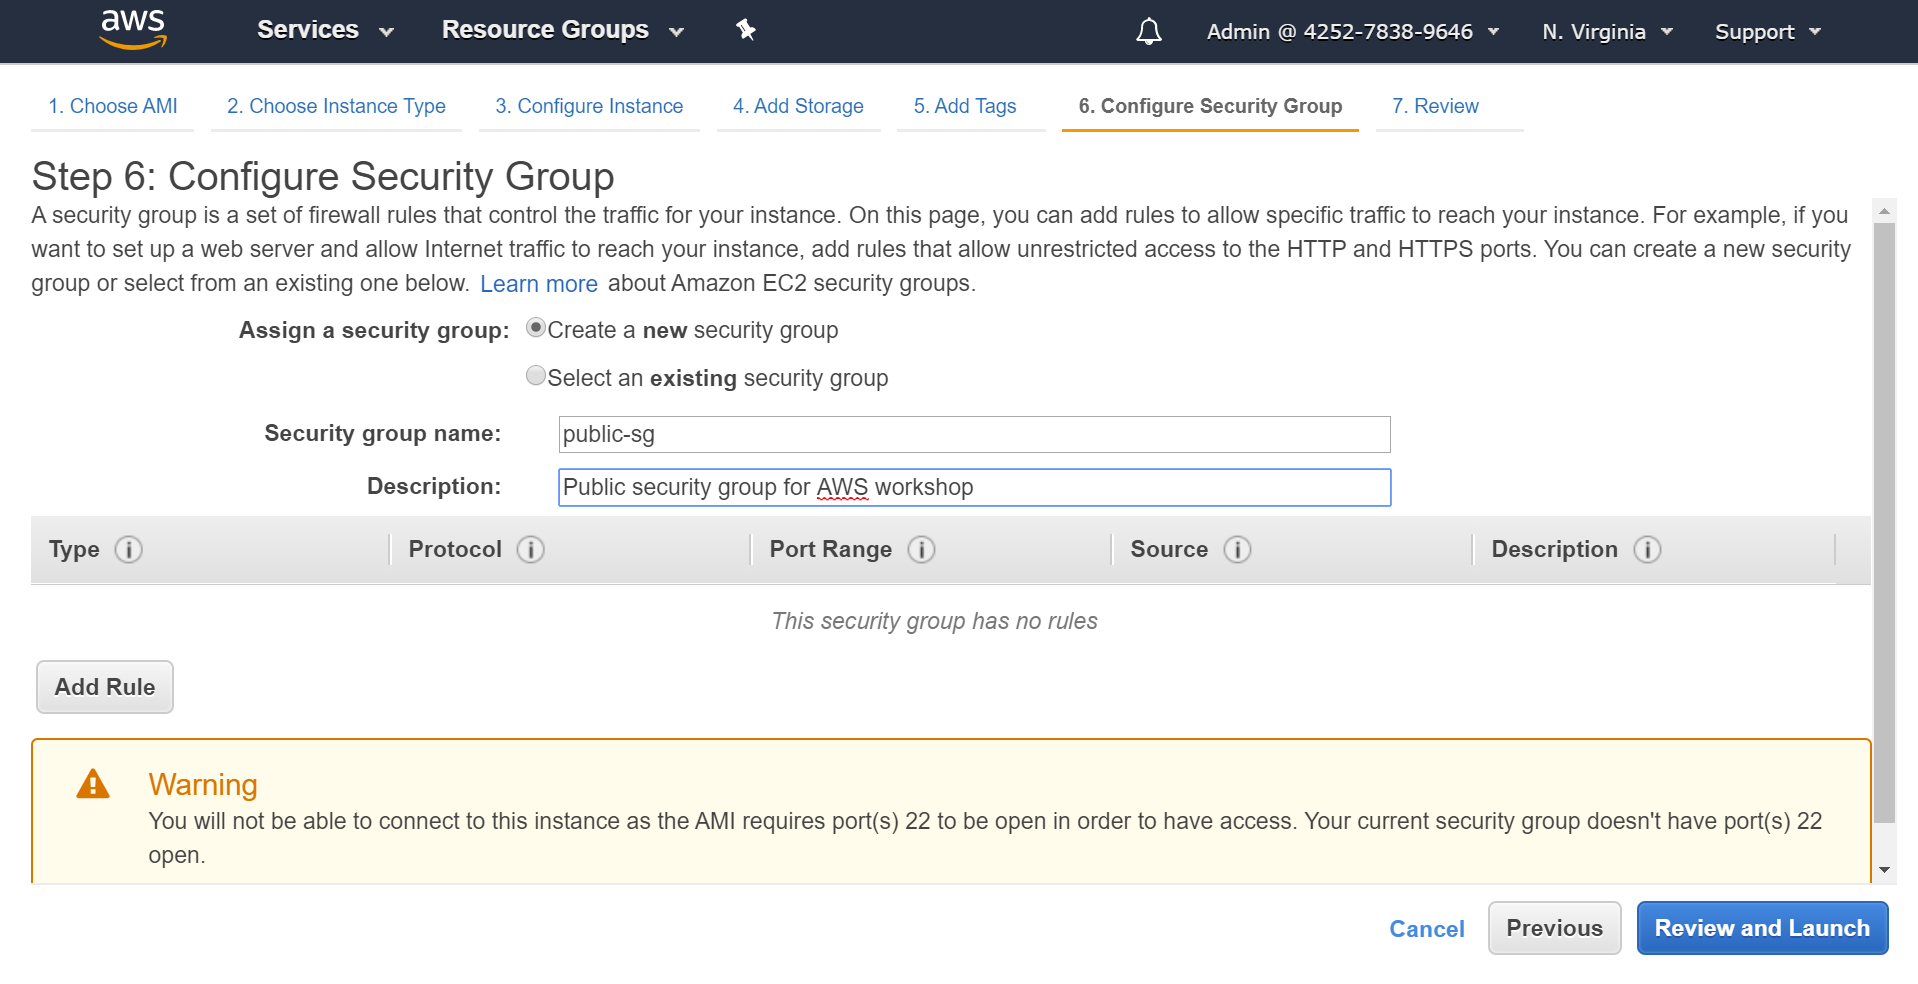
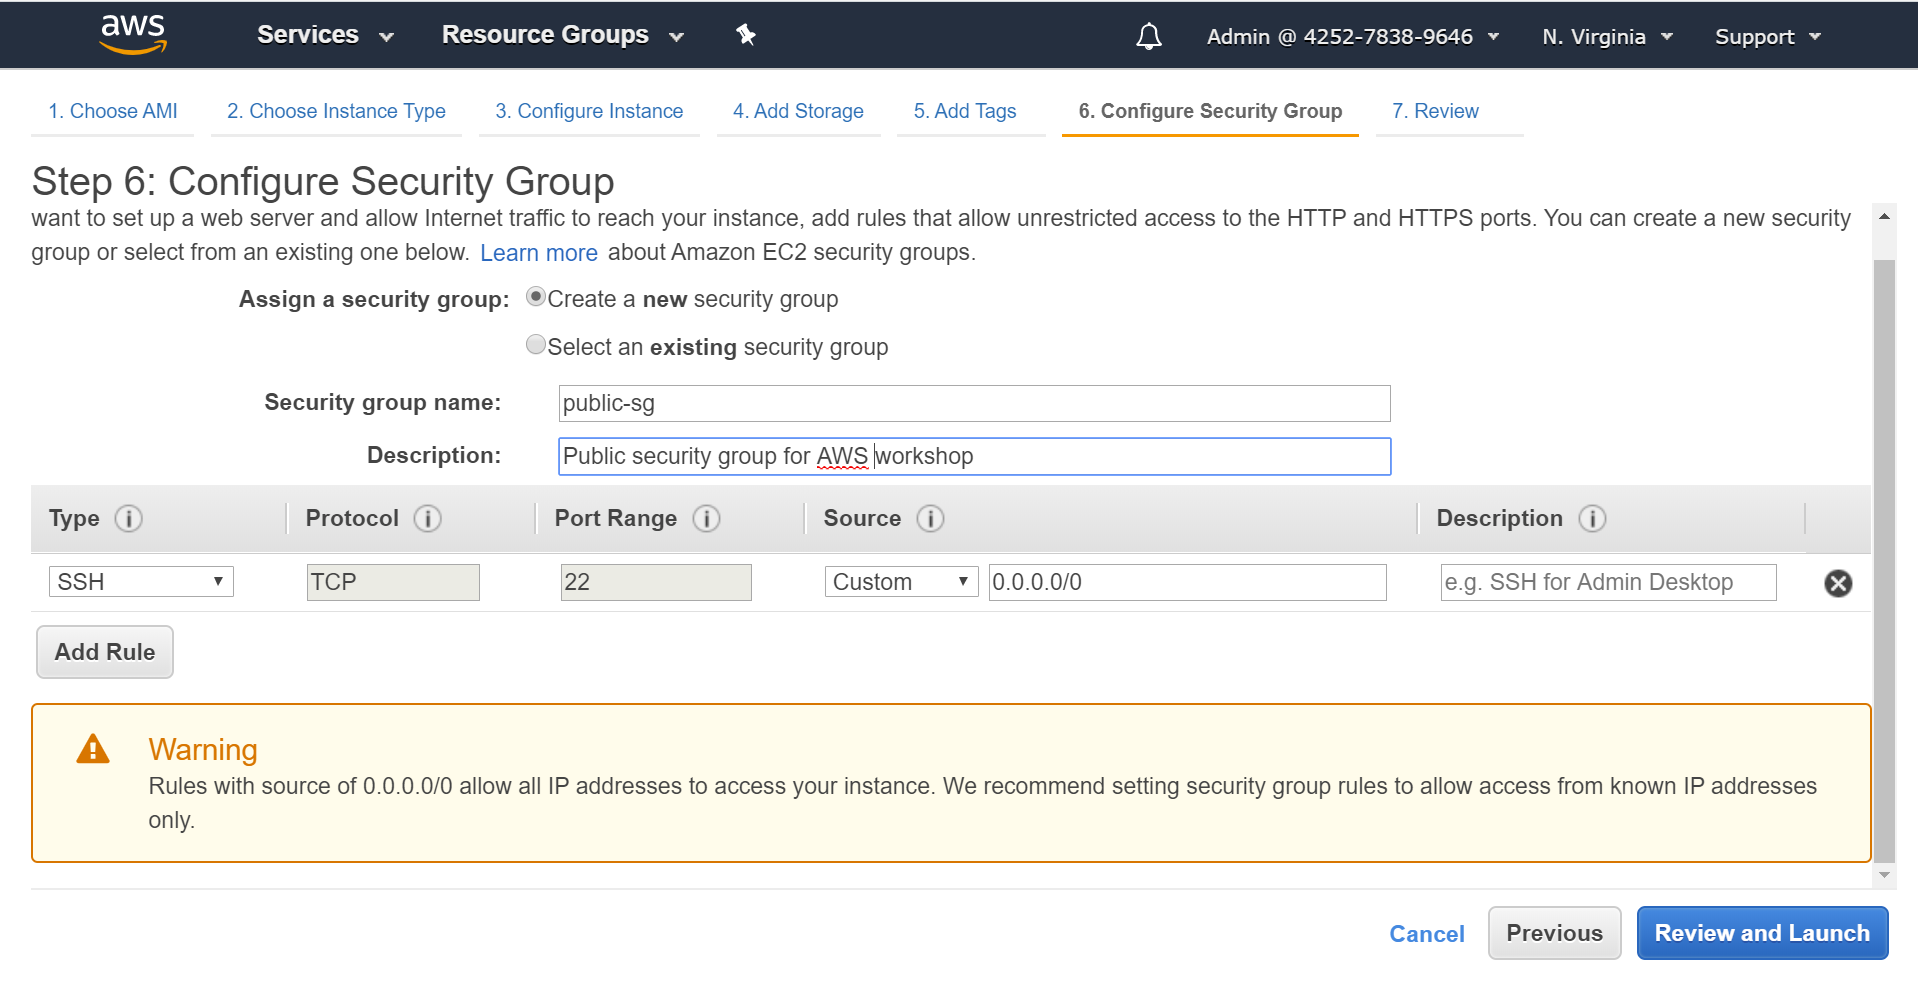
Fixed obvious errors with SSH rules

diff --git a/Step1/README.md b/Step1/README.md
@@ -67,7 +67,7 @@ Virtual Private Clouds (VPCs) allow us to isolate a group of resources from the 
 
 ![Network rules](13-ec2public.png)
 
-1. Create a public security group to attach to the instance.  Remove the default rule that it comes with - we'll configure this in the next step.
+1. Create a public security group to attach to the instance.  You'll notice that there's a warning at the bottom of the page.  If we leave this rule like this, then anyone will be able to SSH into the instance.  Get your Internet connection's public IP address (`!ip` in Google will give it to you), and then replace `0.0.0.0/0` with `your.ip.address.digits/32`.  This means that only people with your public IP address can acces the instance via SSH.
 
 ![Security groups](14-ec2sg.png)
 
